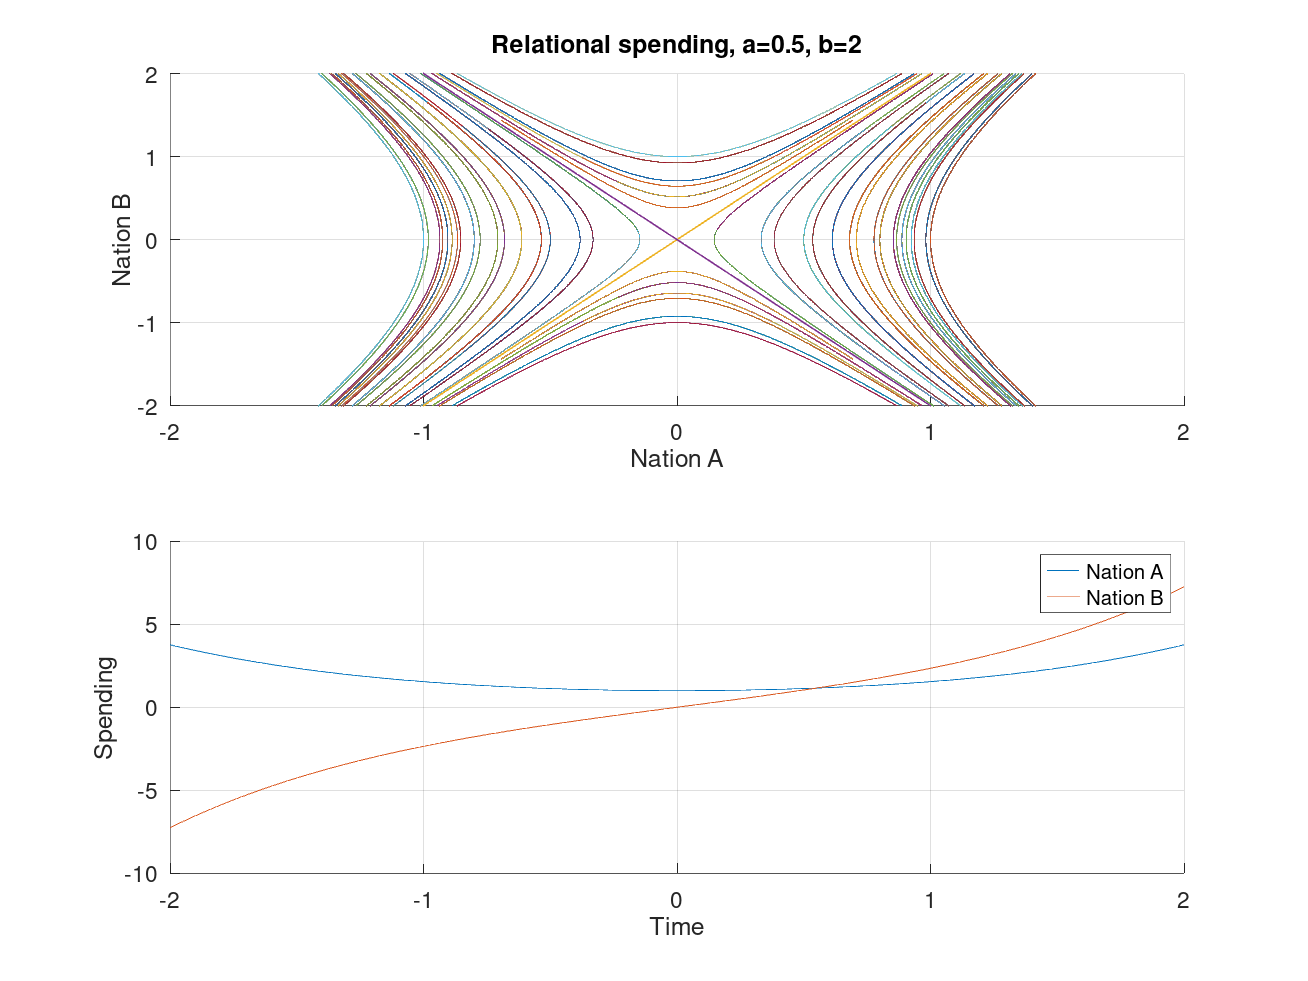
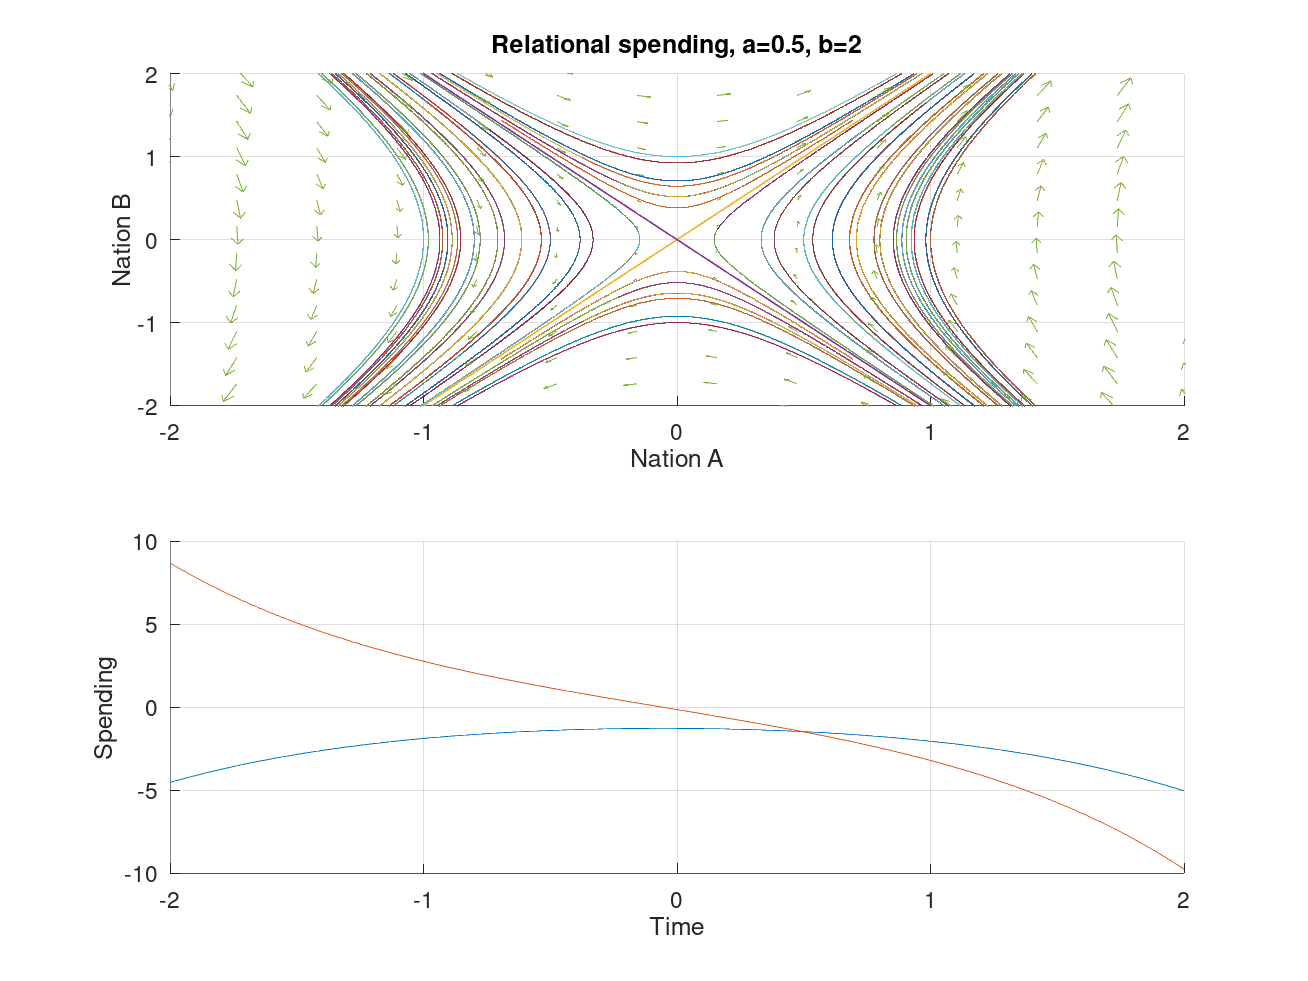
vector field

Changed region(s): [[0.8257, 0.5505, 0.8869, 0.6422], [0.4587, 0.7034, 0.581, 0.7339], [0.3364, 0.6728, 0.3976, 0.7034]]

diff --git a/hyperbola.m b/hyperbola.m
@@ -21,8 +21,7 @@ v_0 = U(2);
 t = linspace(-2,2,200);
 sol = @(t,u) u(1)*xi_1 .* exp(omega*t) + u(2)*xi_2 .* exp(-omega*t);
 fig = figure();
-subplot(2,1,1);
-hold on;
+subplot(2,1,1);hold on;
 for k = 1:size(U,2)
   x = sol(t,U(:,k))(1,:);
   y = sol(t,U(:,k))(2,:);
@@ -30,9 +29,14 @@ for k = 1:size(U,2)
 endfor
 plot(t,sqrt(b/a)*t,'DisplayName',sprintf('Line of slope sqrt(b/a)%.2f',sqrt(b/a)),'LineWidth',1);
 plot(t,-sqrt(b/a)*t,'LineWidth',1)
+vecs = linspace(-3,3,20);
+[X,Y] = meshgrid(vecs);
+U = A(1,1)*X + A(1,2)*Y;
+V = A(2,1)*X + A(2,2)*Y;
+quiver(X,Y,U,V);
 hold off;
 xlim([-2,2]); ylim([-2,2]);
-%legend('show');
+%%legend('show');
 title(sprintf("Relational spending, a=%g, b=%g",a,b));
 xlabel("Nation A");
 ylabel("Nation B");
@@ -45,8 +49,16 @@ plot(t,x,'DisplayName','Nation A');
 plot(t,y,'DisplayName','Nation B');
 xlabel('Time');
 ylabel('Spending');
-legend('show');
+%legend('show');
 grid on;
-%%waitfor(gcf);
+%waitfor(gcf);
 hold off;
 print('figures/model_1_curves.png', '-dpng', '-S800,600');
+
+
+%vecs = linspace(-3,3,20);
+%[X,Y] = meshgrid(vecs);
+%U = A(1,1)*X + A(1,2)*Y;
+%V = A(2,1)*X + A(2,2)*Y;
+%quiver(X,Y,U,V);
+%grid on;
